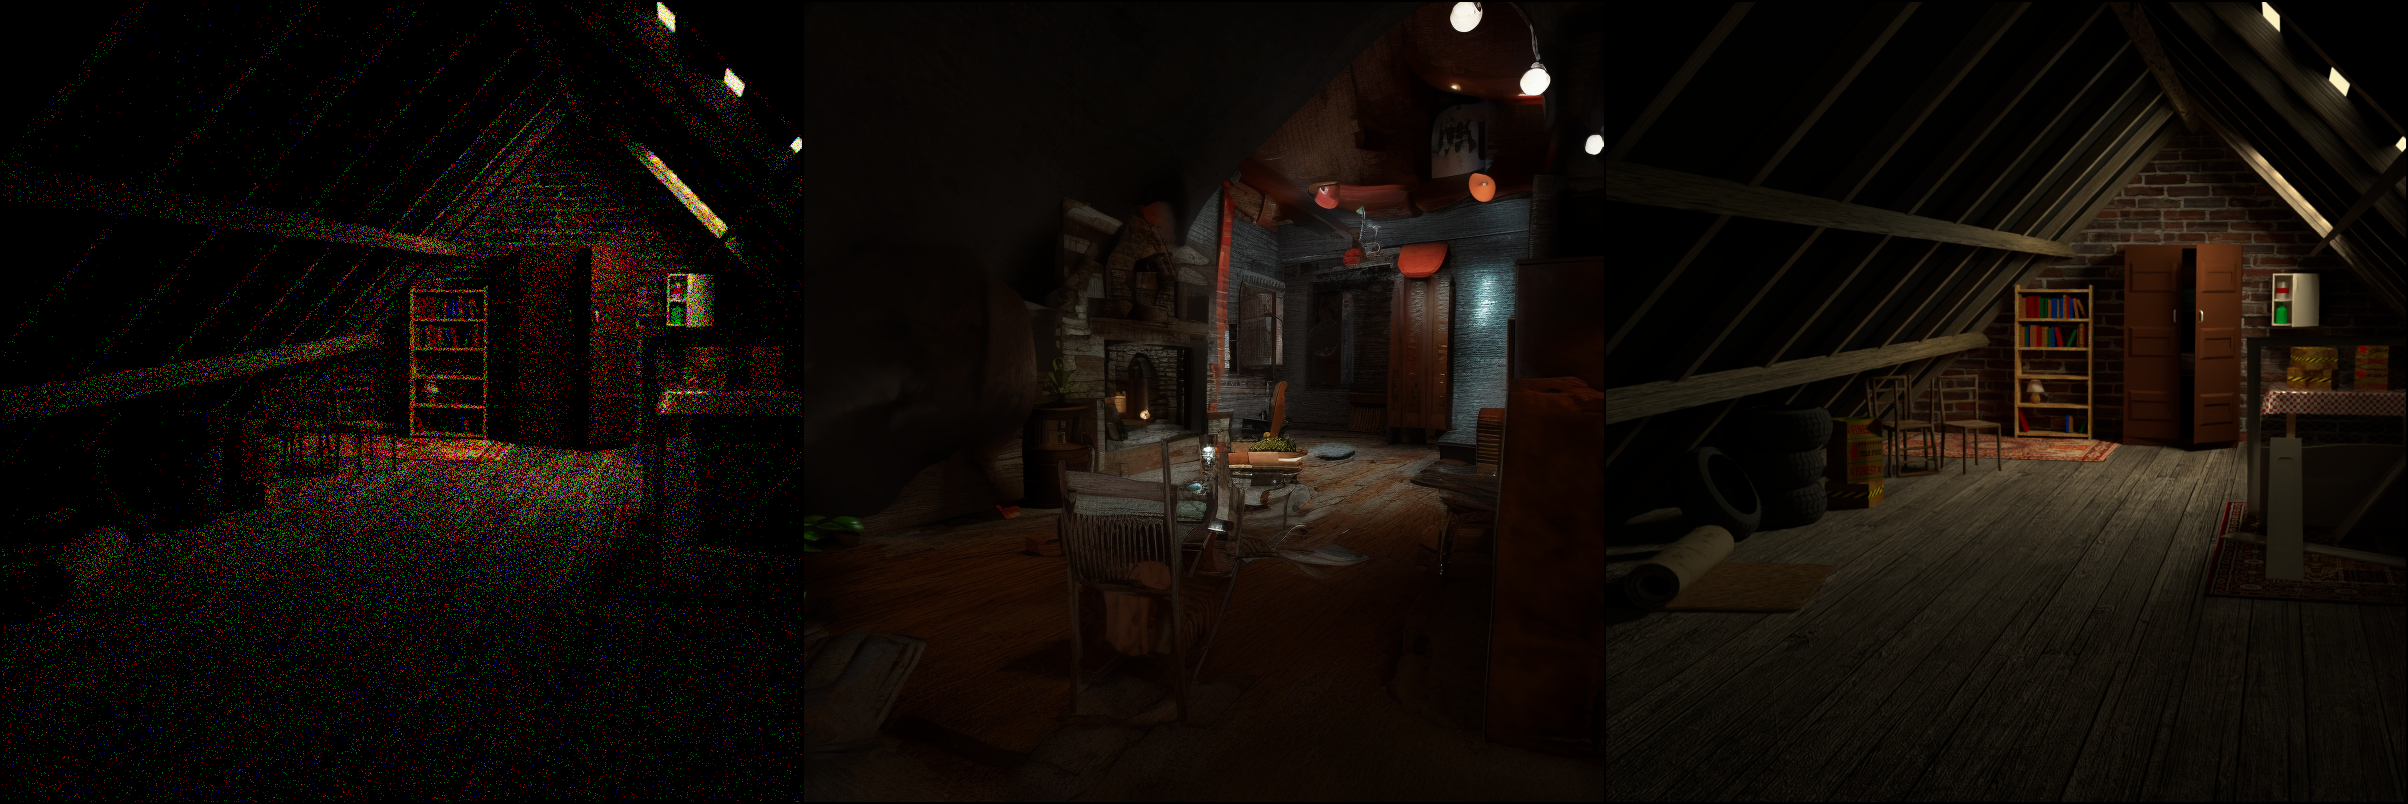
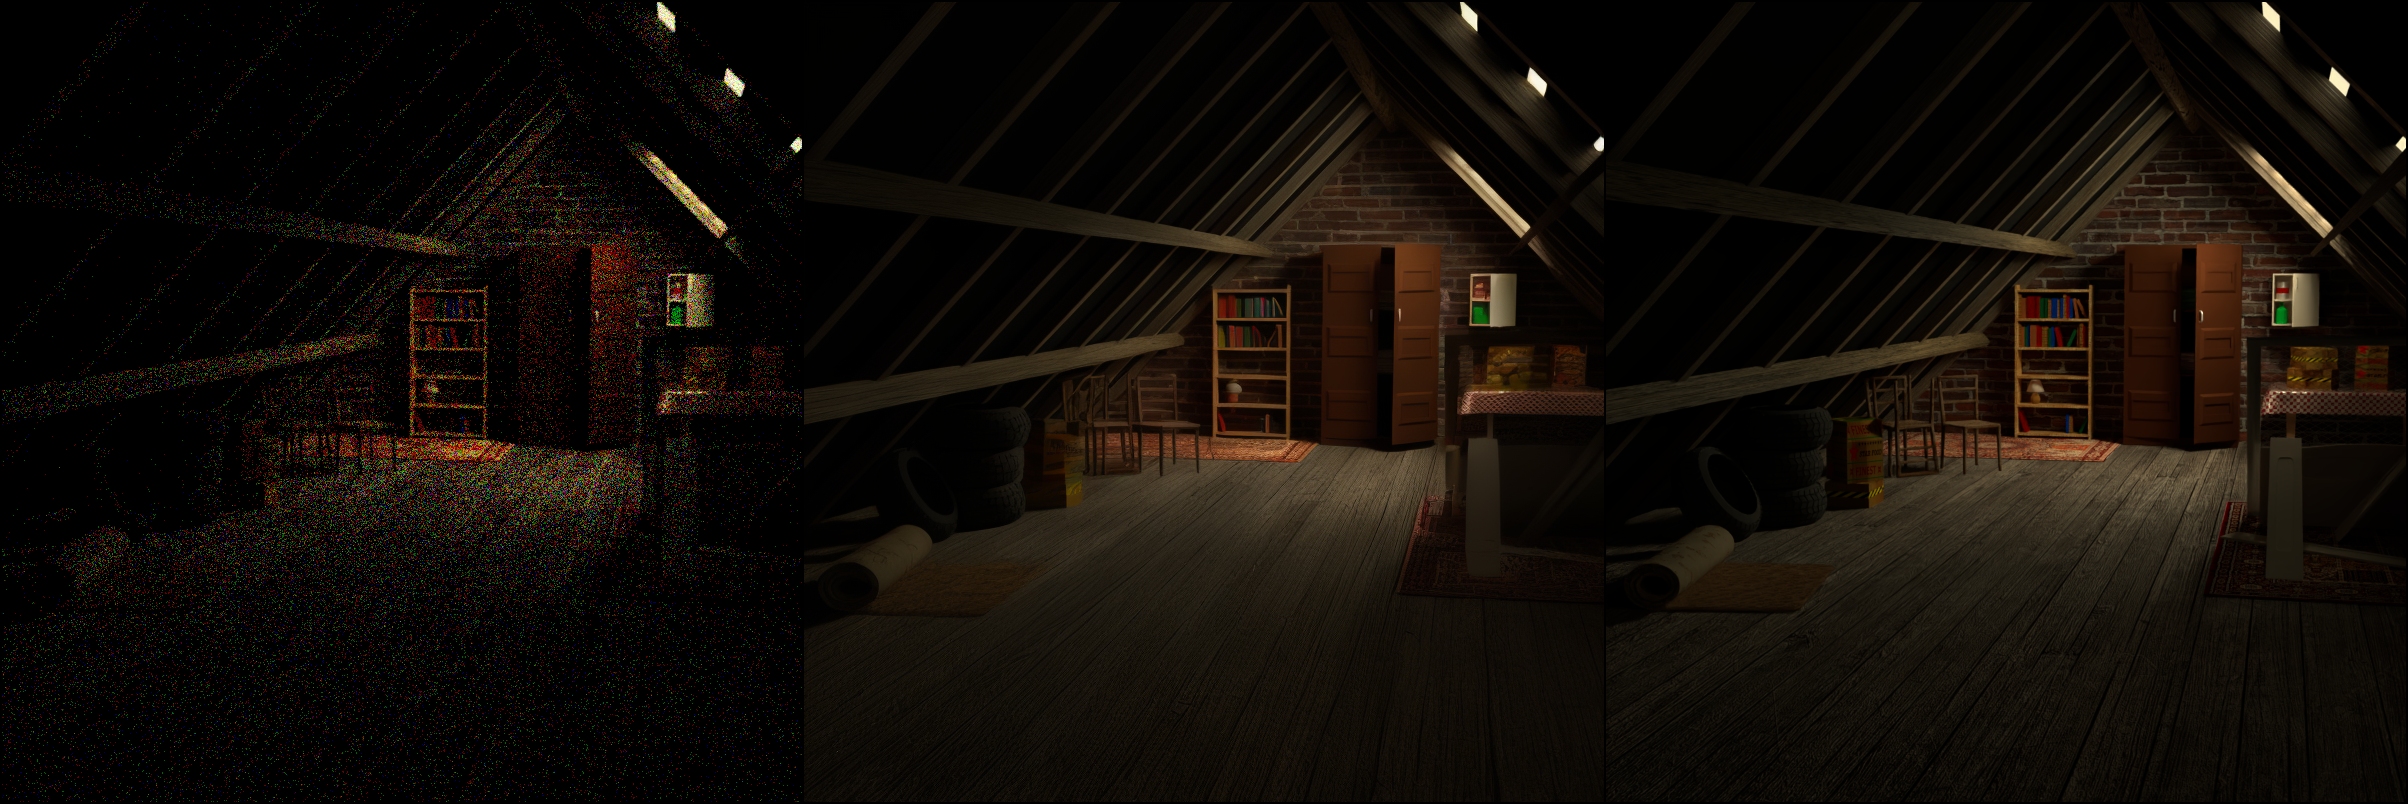
Successful fine-tuning of gQIR

Changed region(s): [[0.3426, 0.0933, 0.6852, 0.7463], [0.5918, 0.0, 0.6541, 0.1555], [0.6541, 0.1555, 0.6852, 0.2177]]

diff --git a/diffusion/config.py b/diffusion/config.py
@@ -170,7 +170,7 @@ SD_PALETTE_TRAIN_CONFIG = {
     "task_name": "single_photon_palette_sd",
 
     "batch_size": 6,
-    "num_epochs": 500,
+    "num_epochs": 2000,
     "lr": 5e-5,
     "num_workers": 2,
 